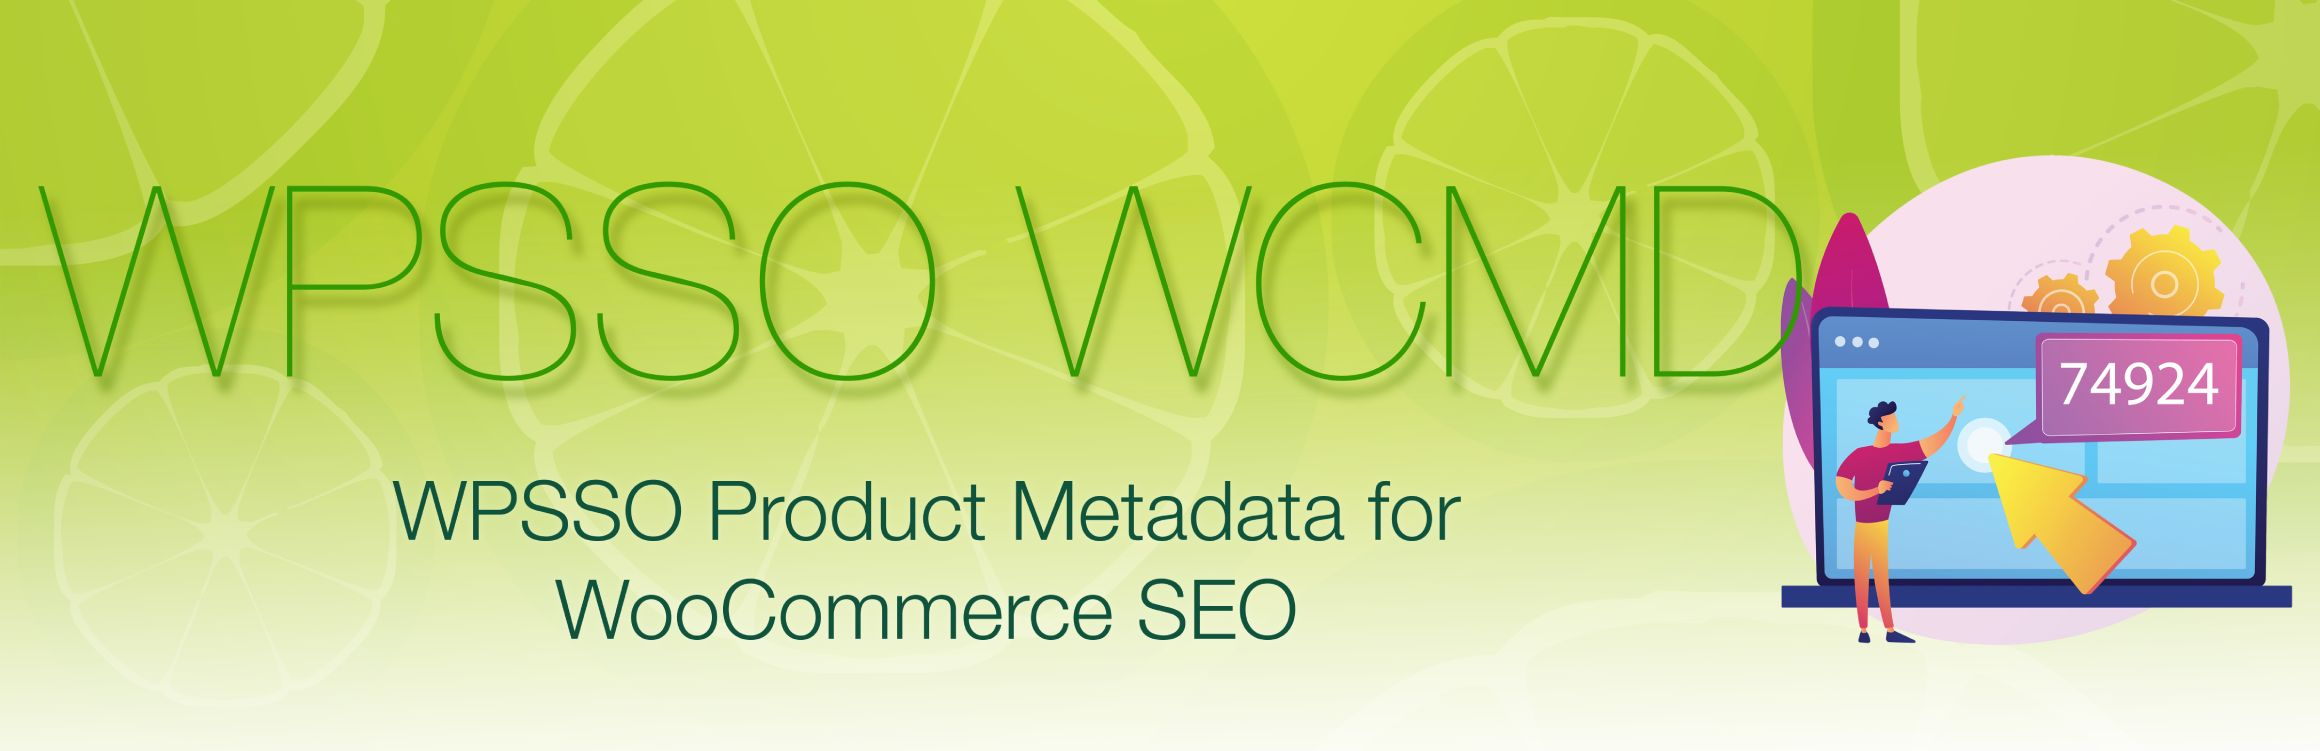
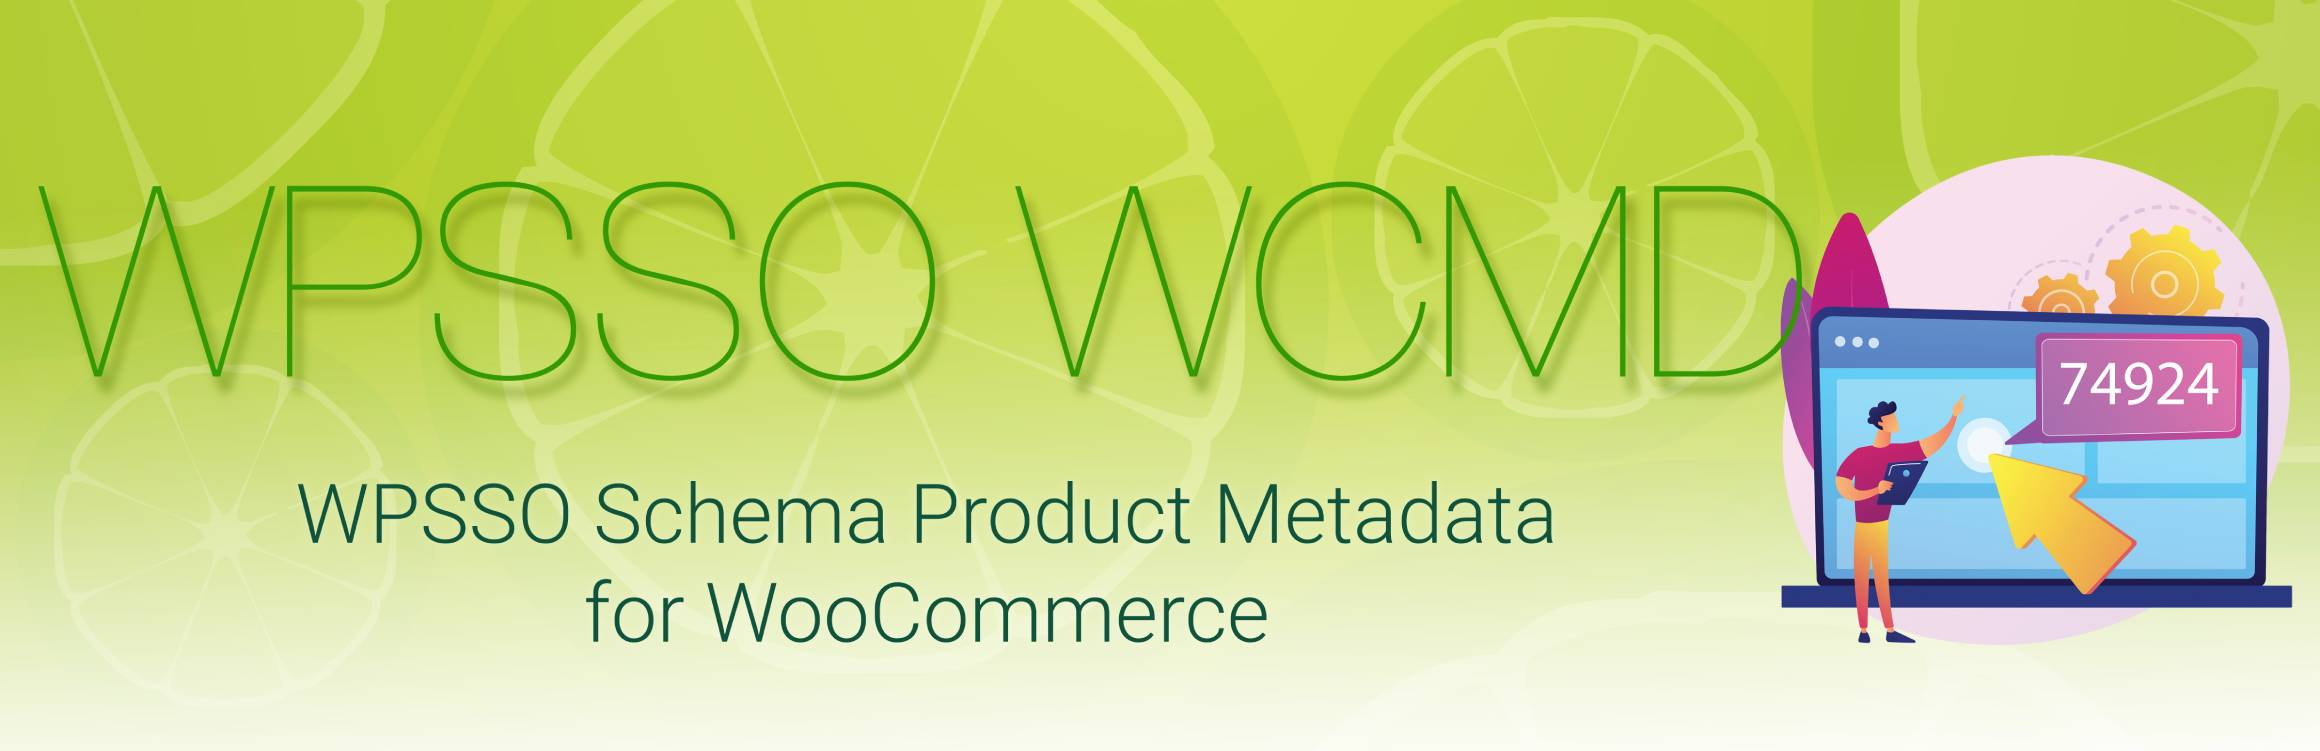
documentation and assets update

Changed region(s): [[0.1241, 0.6431, 0.6828, 0.735], [0.2483, 0.7656, 0.5586, 0.8575]]

diff --git a/index.html b/index.html
@@ -25,10 +25,10 @@
         </ul>
       </header>
       <section>
-<h1>WPSSO Product Metadata (aka Custom Fields) for WooCommerce - MPN, ISBN, GTIN, UPC, EAN, Global Identifiers</h1>
+<h1>WPSSO Schema Product Metadata for WooCommerce</h1>
 
 <table>
-<tr><th align="right" valign="top" nowrap>Plugin Name</th><td>WPSSO Product Metadata for WooCommerce</td></tr>
+<tr><th align="right" valign="top" nowrap>Plugin Name</th><td>WPSSO Schema Product Metadata for WooCommerce</td></tr>
 <tr><th align="right" valign="top" nowrap>Summary</th><td>MPN, ISBN, GTIN, GTIN-8, UPC, EAN, GTIN-14, net dimensions, and fluid volume for WooCommerce products and variations.</td></tr>
 <tr><th align="right" valign="top" nowrap>Stable Version</th><td>4.3.0</td></tr>
 <tr><th align="right" valign="top" nowrap>Requires PHP</th><td>7.4.33 or newer</td></tr>
@@ -63,11 +63,11 @@
 
 <!-- /about -->
 
-<p>The <em>SSO &gt; WooCommerce Metadata</em> settings page allows you to enable or disable each product metadata (aka custom field), along with customizing the label and placeholder values for the available languages (aka WordPress locales).</p>
+<p>The <em>SSO &gt; WC Metadata</em> settings page allows you to enable or disable each product metadata (aka custom field), along with customizing the label and placeholder values for the available languages (aka WordPress locales).</p>
 
 <p>The product global identifier values (ie. MPN, ISBN, GTIN-14, GTIN-13, GTIN-12, GTIN-8, and GTIN) are searchable from both the front-end webpage, and the admin WooCommerce Products page.</p>
 
-<p>The WPSSO Product Metadata for WooCommerce add-on provides Schema (aka Schema.org) mpn, gtin14, gtin13, gtin12, gtin8, gtin, productID isbn, depth (aka length), width, height, weight, and additionalProperty fluid_volume values to the <a href="https://wordpress.org/plugins/wpsso/">WPSSO Core plugin</a> for Google Rich Results, Rich Snippets, and Structured Data.</p>
+<p>The WPSSO Schema Product Metadata for WooCommerce add-on provides Schema (aka Schema.org) mpn, gtin14, gtin13, gtin12, gtin8, gtin, productID isbn, depth (aka length), width, height, weight, and additionalProperty fluid_volume values to the <a href="https://wordpress.org/plugins/wpsso/">WPSSO Core plugin</a> for Google Rich Results, Rich Snippets, and Structured Data.</p>
 
 <h3>Includes WooCommerce Fluid Volume Units</h3>
 
@@ -118,15 +118,15 @@
 
 <h3>WPSSO Core Required</h3>
 
-<p>WPSSO Product Metadata for WooCommerce is an add-on for <a href="https://wordpress.org/plugins/woocommerce/">WooCommerce</a> and the <a href="https://wordpress.org/plugins/wpsso/">WPSSO Core plugin</a>, which creates extensive and complete structured data to present your content at its best for social sites and search results – no matter how URLs are shared, reshared, messaged, posted, embedded, or crawled.</p>
+<p>WPSSO Schema Product Metadata for WooCommerce is an add-on for <a href="https://wordpress.org/plugins/woocommerce/">WooCommerce</a> and the <a href="https://wordpress.org/plugins/wpsso/">WPSSO Core plugin</a>, which creates extensive and complete structured data to present your content at its best for social sites and search results – no matter how URLs are shared, reshared, messaged, posted, embedded, or crawled.</p>
 
 <h2>Installation</h2>
 
 <h3 class="top">Install and Uninstall</h3>
 
 <ul>
-<li><a href="https://wpsso.com/docs/plugins/wpsso-wc-metadata/installation/install-the-plugin/">Install the WPSSO Product Metadata for WooCommerce add-on</a>.</li>
-<li><a href="https://wpsso.com/docs/plugins/wpsso-wc-metadata/installation/uninstall-the-plugin/">Uninstall the WPSSO Product Metadata for WooCommerce add-on</a>.</li>
+<li><a href="https://wpsso.com/docs/plugins/wpsso-wc-metadata/installation/install-the-plugin/">Install the WPSSO Schema Product Metadata for WooCommerce add-on</a>.</li>
+<li><a href="https://wpsso.com/docs/plugins/wpsso-wc-metadata/installation/uninstall-the-plugin/">Uninstall the WPSSO Schema Product Metadata for WooCommerce add-on</a>.</li>
 </ul>
 
 <h2>Frequently Asked Questions</h2>

diff --git a/README.md b/README.md
@@ -1,7 +1,7 @@
-<h1>WPSSO Product Metadata (aka Custom Fields) for WooCommerce - MPN, ISBN, GTIN, UPC, EAN, Global Identifiers</h1>
+<h1>WPSSO Schema Product Metadata for WooCommerce</h1>
 
 <table>
-<tr><th align="right" valign="top" nowrap>Plugin Name</th><td>WPSSO Product Metadata for WooCommerce</td></tr>
+<tr><th align="right" valign="top" nowrap>Plugin Name</th><td>WPSSO Schema Product Metadata for WooCommerce</td></tr>
 <tr><th align="right" valign="top" nowrap>Summary</th><td>MPN, ISBN, GTIN, GTIN-8, UPC, EAN, GTIN-14, net dimensions, and fluid volume for WooCommerce products and variations.</td></tr>
 <tr><th align="right" valign="top" nowrap>Stable Version</th><td>4.3.0</td></tr>
 <tr><th align="right" valign="top" nowrap>Requires PHP</th><td>7.4.33 or newer</td></tr>
@@ -36,11 +36,11 @@
 
 <!-- /about -->
 
-<p>The <em>SSO &gt; WooCommerce Metadata</em> settings page allows you to enable or disable each product metadata (aka custom field), along with customizing the label and placeholder values for the available languages (aka WordPress locales).</p>
+<p>The <em>SSO &gt; WC Metadata</em> settings page allows you to enable or disable each product metadata (aka custom field), along with customizing the label and placeholder values for the available languages (aka WordPress locales).</p>
 
 <p>The product global identifier values (ie. MPN, ISBN, GTIN-14, GTIN-13, GTIN-12, GTIN-8, and GTIN) are searchable from both the front-end webpage, and the admin WooCommerce Products page.</p>
 
-<p>The WPSSO Product Metadata for WooCommerce add-on provides Schema (aka Schema.org) mpn, gtin14, gtin13, gtin12, gtin8, gtin, productID isbn, depth (aka length), width, height, weight, and additionalProperty fluid_volume values to the <a href="https://wordpress.org/plugins/wpsso/">WPSSO Core plugin</a> for Google Rich Results, Rich Snippets, and Structured Data.</p>
+<p>The WPSSO Schema Product Metadata for WooCommerce add-on provides Schema (aka Schema.org) mpn, gtin14, gtin13, gtin12, gtin8, gtin, productID isbn, depth (aka length), width, height, weight, and additionalProperty fluid_volume values to the <a href="https://wordpress.org/plugins/wpsso/">WPSSO Core plugin</a> for Google Rich Results, Rich Snippets, and Structured Data.</p>
 
 <h3>Includes WooCommerce Fluid Volume Units</h3>
 
@@ -91,15 +91,15 @@
 
 <h3>WPSSO Core Required</h3>
 
-<p>WPSSO Product Metadata for WooCommerce is an add-on for <a href="https://wordpress.org/plugins/woocommerce/">WooCommerce</a> and the <a href="https://wordpress.org/plugins/wpsso/">WPSSO Core plugin</a>, which creates extensive and complete structured data to present your content at its best for social sites and search results – no matter how URLs are shared, reshared, messaged, posted, embedded, or crawled.</p>
+<p>WPSSO Schema Product Metadata for WooCommerce is an add-on for <a href="https://wordpress.org/plugins/woocommerce/">WooCommerce</a> and the <a href="https://wordpress.org/plugins/wpsso/">WPSSO Core plugin</a>, which creates extensive and complete structured data to present your content at its best for social sites and search results – no matter how URLs are shared, reshared, messaged, posted, embedded, or crawled.</p>
 
 <h2>Installation</h2>
 
 <h3 class="top">Install and Uninstall</h3>
 
 <ul>
-<li><a href="https://wpsso.com/docs/plugins/wpsso-wc-metadata/installation/install-the-plugin/">Install the WPSSO Product Metadata for WooCommerce add-on</a>.</li>
-<li><a href="https://wpsso.com/docs/plugins/wpsso-wc-metadata/installation/uninstall-the-plugin/">Uninstall the WPSSO Product Metadata for WooCommerce add-on</a>.</li>
+<li><a href="https://wpsso.com/docs/plugins/wpsso-wc-metadata/installation/install-the-plugin/">Install the WPSSO Schema Product Metadata for WooCommerce add-on</a>.</li>
+<li><a href="https://wpsso.com/docs/plugins/wpsso-wc-metadata/installation/uninstall-the-plugin/">Uninstall the WPSSO Schema Product Metadata for WooCommerce add-on</a>.</li>
 </ul>
 
 <h2>Frequently Asked Questions</h2>
